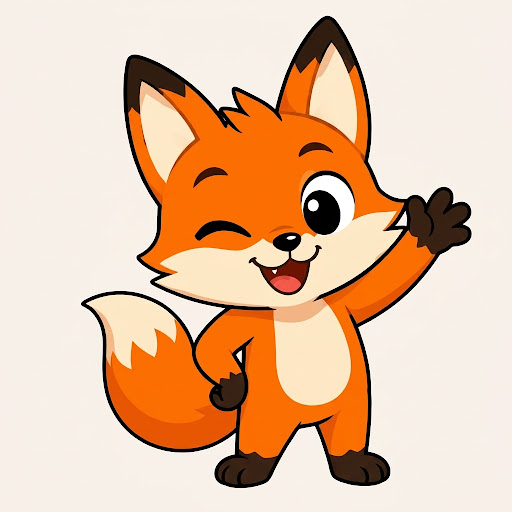
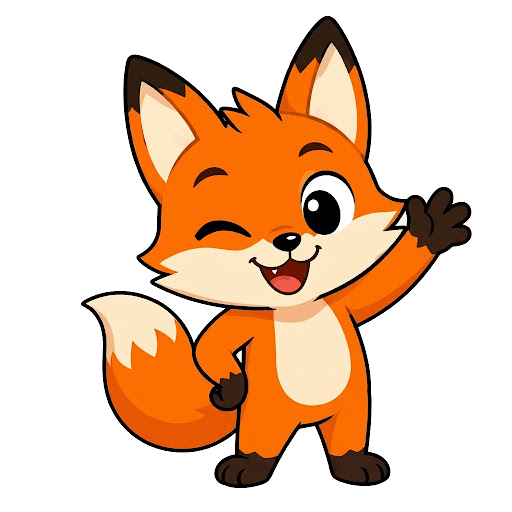
fix(welcome): transparent mascot, nested 3D card bevel, and bottom-right badge positioning

diff --git a/app/index.tsx b/app/index.tsx
@@ -1,21 +1,12 @@
-import { router } from "expo-router";
-import { Image, Pressable, ScrollView, Text, View } from "react-native";
+import { ScrollView, View } from "react-native";
 import { SafeAreaView } from "react-native-safe-area-context";
-import { Ionicons } from "@expo/vector-icons";
 
-import { images } from "@/constants/images";
 import { colors } from "@/constants/theme";
+import WelcomeActions from "@/components/welcome/WelcomeActions";
+import WelcomeCopy from "@/components/welcome/WelcomeCopy";
+import WelcomeHeader from "@/components/welcome/WelcomeHeader";
+import MascotWelcome from "@/components/welcome/MascotWelcome";
 
-/**
- * Lingua Welcome / Onboarding Screen
- * Replicated to match the Stitch reference image:
- * - Brand logo + Lingua header
- * - Light mint rounded hero card with waving mascot
- * - Yellow speech bubble badge positioned at the bottom left corner of the mascot image
- * - Tagline with green sparkle: "YOUR NEXT CONVERSATION STARTS HERE"
- * - Headline: "Speak up with\nconfidence."
- * - Tactile 3D "GET STARTED" and "I ALREADY HAVE AN ACCOUNT" buttons
- */
 export default function HomeScreen() {
   return (
     <SafeAreaView
@@ -34,124 +25,11 @@ export default function HomeScreen() {
         showsVerticalScrollIndicator={false}
       >
         <View className="mx-auto w-full max-w-md">
-          {/* 1. Header: Green Logo + Lingua */}
-          <View className="flex-row items-center gap-3">
-            <View
-              className="h-11 w-11 items-center justify-center rounded-2xl"
-              style={{ backgroundColor: colors.primary }}
-            >
-              <Ionicons name="chatbubble" size={20} color="#ffffff" />
-            </View>
-            <Text
-              className="text-xl font-black"
-              style={{ color: colors.ink }}
-            >
-              Lingua
-            </Text>
-          </View>
-
-          {/* 2. Hero Mascot Card */}
-          <View
-            className="relative mt-5 w-full items-center justify-center overflow-hidden rounded-[32px] border-b-[6px]"
-            style={{
-              height: 290,
-              backgroundColor: "#dff5cf",
-              borderBottomColor: colors.primaryDark,
-            }}
-          >
-            {/* Mascot Image Container with Badge at the Bottom Left Corner of the Image */}
-            <View className="relative items-center justify-center">
-              <Image
-                source={images.mascotVoyager}
-                style={{ width: 220, height: 220 }}
-                resizeMode="contain"
-                accessibilityLabel="Lingua mascot"
-              />
-
-              {/* Yellow Speech Bubble Badge positioned at the bottom left corner of the image */}
-              <View
-                className="absolute bottom-2 left-2 items-center justify-center rounded-2xl border-b-4"
-                style={{
-                  width: 46,
-                  height: 46,
-                  backgroundColor: "#fed7aa",
-                  borderBottomColor: "#b45309",
-                }}
-              >
-                <Ionicons name="chatbubble-ellipses" size={20} color="#78350f" />
-              </View>
-            </View>
-          </View>
-
-          {/* 3. Text Section */}
-          <View className="mt-5">
-            {/* Tagline Pill */}
-            <View className="flex-row items-center gap-1.5">
-              <Ionicons name="sparkles" size={13} color={colors.primary} />
-              <Text
-                className="text-xs font-black uppercase tracking-wider"
-                style={{ color: colors.primary }}
-              >
-                YOUR NEXT CONVERSATION STARTS HERE
-              </Text>
-            </View>
-
-            {/* Headline */}
-            <Text
-              className="mt-2 text-[32px] font-black leading-[38px]"
-              style={{ color: colors.ink }}
-            >
-              Speak up with{"\n"}confidence.
-            </Text>
-
-            {/* Subtitle */}
-            <Text
-              className="mt-2 text-sm font-semibold"
-              style={{ color: colors.onSurfaceVariant }}
-            >
-              Practice for the real moments that matter.
-            </Text>
-          </View>
+          <WelcomeHeader />
+          <MascotWelcome />
+          <WelcomeCopy />
         </View>
-
-        {/* 4. Tactile 3D Action Buttons */}
-        <View className="mx-auto w-full max-w-md gap-3 pt-6">
-          {/* Primary GET STARTED Button */}
-          <Pressable
-            accessibilityRole="button"
-            accessibilityLabel="Get Started"
-            onPress={() => router.push("/(tabs)")}
-            className="w-full items-center justify-center rounded-2xl border-b-4 py-3.5 active:translate-y-1 active:border-b-0"
-            style={{
-              backgroundColor: colors.primary,
-              borderBottomColor: colors.primaryDark,
-            }}
-          >
-            <Text className="text-base font-black tracking-wider text-white">
-              GET STARTED
-            </Text>
-          </Pressable>
-
-          {/* Secondary I ALREADY HAVE AN ACCOUNT Button */}
-          <Pressable
-            accessibilityRole="button"
-            accessibilityLabel="I already have an account"
-            onPress={() => router.push("/login")}
-            className="w-full items-center justify-center rounded-2xl border-2 border-b-4 py-3.5 active:translate-y-1 active:border-b-2"
-            style={{
-              backgroundColor: colors.surface,
-              borderColor: colors.border,
-              borderBottomColor: "#d1d5db",
-            }}
-          >
-            <Text
-              className="text-sm font-black tracking-wider"
-              style={{ color: colors.primary }}
-            >
-              I ALREADY HAVE AN ACCOUNT
-            </Text>
-          </Pressable>
-        </View>
+        <WelcomeActions />
       </ScrollView>
     </SafeAreaView>
   );

diff --git a/components/welcome/MascotWelcome.tsx b/components/welcome/MascotWelcome.tsx
@@ -1,0 +1,64 @@
+import { Image, View } from "react-native";
+import { Ionicons } from "@expo/vector-icons";
+
+import { images } from "@/constants/images";
+import { colors } from "@/constants/theme";
+
+/**
+ * Mascot hero card for the Welcome screen.
+ * Replicates the Stitch reference design:
+ * - Rounded card with solid 3D bottom bevel (using nested views for Android compatibility)
+ * - Transparent waving fox mascot centered on light mint background
+ * - Tactile 3D yellow speech bubble badge anchored in the bottom-right corner of the card
+ */
+export default function MascotWelcome() {
+  return (
+    <View
+      className="mt-4 w-full items-center justify-center rounded-[32px]"
+      style={{
+        backgroundColor: colors.primaryDark,
+        paddingBottom: 6,
+      }}
+    >
+      <View
+        className="relative w-full items-center justify-center overflow-hidden rounded-[28px]"
+        style={{
+          height: 270,
+          backgroundColor: "#dff5cf",
+        }}
+      >
+        {/* Transparent Waving Mascot */}
+        <Image
+          source={images.mascotVoyager}
+          style={{ width: 220, height: 220 }}
+          resizeMode="contain"
+          accessibilityLabel="Lingua mascot"
+        />
+
+        {/* 3D Yellow Speech Bubble Badge positioned at bottom-right corner of the card */}
+        <View
+          style={{
+            position: "absolute",
+            right: 14,
+            bottom: 14,
+            width: 48,
+            height: 52,
+            backgroundColor: "#b45309",
+            borderRadius: 18,
+            paddingBottom: 4,
+          }}
+        >
+          <View
+            className="h-full w-full items-center justify-center rounded-2xl"
+            style={{
+              backgroundColor: "#fed7aa",
+              borderRadius: 16,
+            }}
+          >
+            <Ionicons name="chatbubble-ellipses" size={22} color="#78350f" />
+          </View>
+        </View>
+      </View>
+    </View>
+  );
+}

diff --git a/components/welcome/WelcomeCopy.tsx b/components/welcome/WelcomeCopy.tsx
@@ -1,0 +1,34 @@
+import { Text, View } from "react-native";
+import { Ionicons } from "@expo/vector-icons";
+
+import { colors } from "@/constants/theme";
+
+export default function WelcomeCopy() {
+  return (
+    <View className="mt-5">
+      <View className="flex-row items-center gap-1.5">
+        <Ionicons name="sparkles" size={13} color={colors.primary} />
+        <Text
+          className="text-xs font-black uppercase tracking-wider"
+          style={{ color: colors.primary }}
+        >
+          YOUR NEXT CONVERSATION STARTS HERE
+        </Text>
+      </View>
+
+      <Text
+        className="mt-2 text-[32px] font-black leading-[38px]"
+        style={{ color: colors.ink }}
+      >
+        Speak up with{"\n"}confidence.
+      </Text>
+
+      <Text
+        className="mt-2 text-sm font-semibold"
+        style={{ color: colors.onSurfaceVariant }}
+      >
+        Practice for the real moments that matter.
+      </Text>
+    </View>
+  );
+}

diff --git a/components/welcome/WelcomeActions.tsx b/components/welcome/WelcomeActions.tsx
@@ -1,0 +1,26 @@
+import { router } from "expo-router";
+import { View } from "react-native";
+
+import { Button } from "@/components/ui/Button";
+
+/**
+ * Action buttons for the Welcome screen.
+ * - Primary "GET STARTED" with green tactile 3D bevel
+ * - Secondary "I ALREADY HAVE AN ACCOUNT" with outline tactile 3D bevel
+ */
+export default function WelcomeActions() {
+  return (
+    <View className="mx-auto w-full max-w-md gap-3 pt-6">
+      <Button
+        label="GET STARTED"
+        onPress={() => router.push("/(tabs)")}
+        variant="primary"
+      />
+      <Button
+        label="I ALREADY HAVE AN ACCOUNT"
+        onPress={() => router.push("/login")}
+        variant="outline"
+      />
+    </View>
+  );
+}

diff --git a/components/welcome/WelcomeHeader.tsx b/components/welcome/WelcomeHeader.tsx
@@ -1,0 +1,20 @@
+import { Text, View } from "react-native";
+import { Ionicons } from "@expo/vector-icons";
+
+import { colors } from "@/constants/theme";
+
+export default function WelcomeHeader() {
+  return (
+    <View className="flex-row items-center gap-3">
+      <View
+        className="h-11 w-11 items-center justify-center rounded-2xl"
+        style={{ backgroundColor: colors.primary }}
+      >
+        <Ionicons name="chatbubble" size={20} color="#ffffff" />
+      </View>
+      <Text className="text-xl font-black" style={{ color: colors.ink }}>
+        Lingua
+      </Text>
+    </View>
+  );
+}
